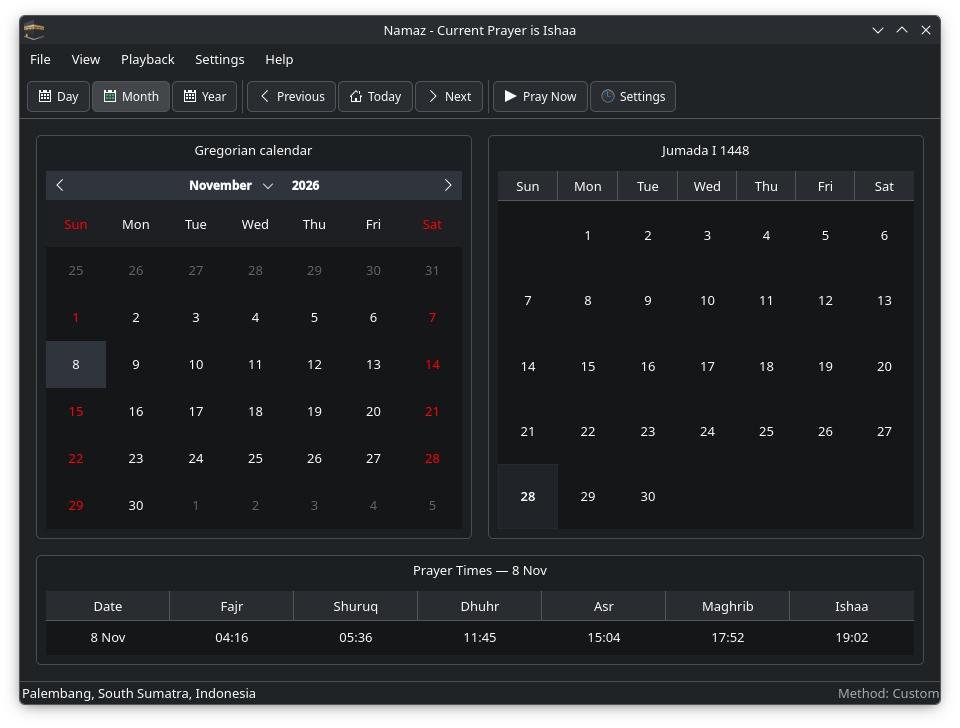
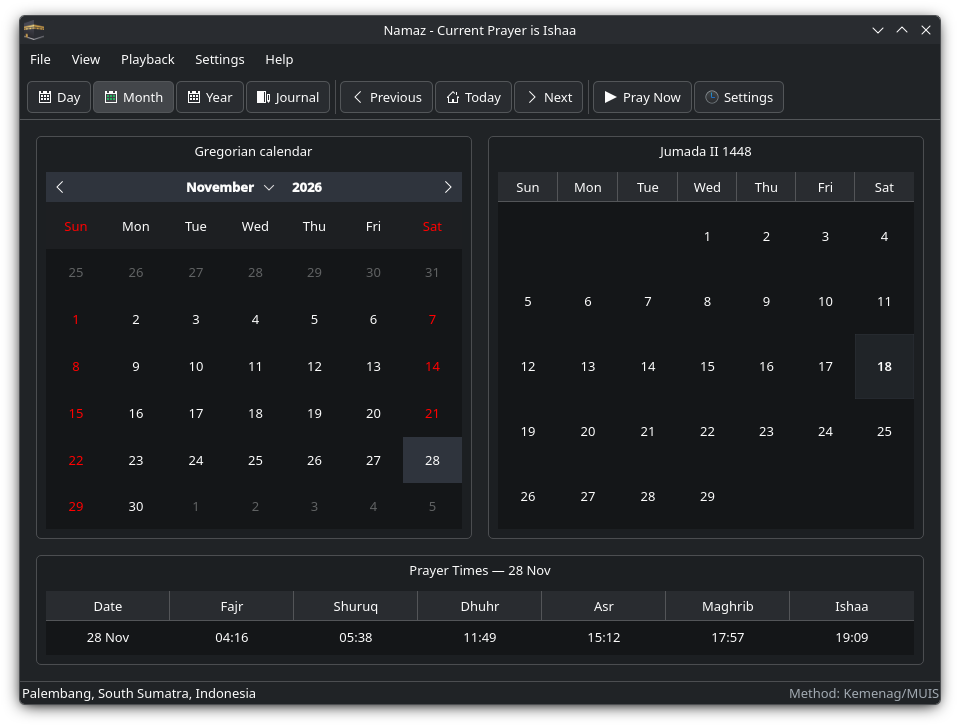
docs: refresh screenshots and add journal view

diff --git a/packaging/pages/index.html b/packaging/pages/index.html
@@ -112,6 +112,7 @@ flatpak run io.github.ikhlasulov.Namaz</code></pre>
     <p class="lead" style="font-size: .95rem">Click a screenshot to see it full size.</p>
     <div class="grid">
       <a href="screenshots/day.png" data-caption="Day view"><img src="screenshots/day.png" alt="Day view" loading="lazy"></a>
+      <a href="screenshots/journal.png" data-caption="Prayer journal"><img src="screenshots/journal.png" alt="Prayer journal" loading="lazy"></a>
       <a href="screenshots/month.png" data-caption="Month view"><img src="screenshots/month.png" alt="Month view" loading="lazy"></a>
       <a href="screenshots/year.png" data-caption="Year view"><img src="screenshots/year.png" alt="Year view" loading="lazy"></a>
       <a href="screenshots/settings.png" data-caption="Prayer settings"><img src="screenshots/settings.png" alt="Prayer settings" loading="lazy"></a>

diff --git a/ui/translations/namaz_ru.ts b/ui/translations/namaz_ru.ts
@@ -430,7 +430,7 @@
     <message>
         <location filename="../src/Widgets.cpp" line="473"/>
         <source>Show &amp;Hijri Date</source>
-        <translation>Показать &amp;хиджрийскую дату</translation>
+        <translation>Показать &amp;дату хиджры</translation>
     </message>
     <message>
         <location filename="../src/Widgets.cpp" line="480"/>
@@ -2009,7 +2009,7 @@ Save anyway?</source>
     <message>
         <location filename="../src/Dialogs.cpp" line="1448"/>
         <source>Hijri date offset</source>
-        <translation>Смещение хиджрийской даты</translation>
+        <translation>Смещение даты хиджры</translation>
     </message>
     <message>
         <location filename="../src/Dialogs.cpp" line="1160"/>

diff --git a/README.ru.md b/README.ru.md
@@ -5,7 +5,7 @@
 <h1 align="center">Namaz</h1>
 
 <p align="center">
-  Время мусульманских молитв, направление Киблы и хиджрийский календарь для Linux.<br>
+  Время мусульманских молитв, направление Киблы и календарь хиджры для Linux.<br>
   Нативное ядро на Rust + интерфейс Qt 6 Widgets.
 </p>
 
@@ -24,7 +24,7 @@
 
 **Namaz** — свободное нативное приложение для Linux для пяти ежедневных
 молитв. Оно рассчитывает время намаза по координатам и выбранному методу,
-показывает направление Киблы и хиджрийский календарь, умеет проигрывать
+показывает направление Киблы и календарь хиджры, умеет проигрывать
 азан, напоминания и икаму из системного трея.
 
 Интерфейс следует рекомендациям KDE Plasma HIG и интегрируется с рабочим
@@ -37,7 +37,7 @@
 
 ## Возможности
 
-- **Экраны Day, Month, Year и Journal (Журнал)** с григорианским и хиджрийским календарями.
+- **Экраны Day, Month, Year и Journal (Журнал)** с григорианским календарём и календарём хиджры.
 - **Точный движок расчёта**, портированный из Islamic Times Library (ITL).
 - **Методы расчёта**: Custom, Egyptian, ISNA, MWL, Umm al-Qura, Karachi,
   Kemenag/MUIS (Индонезия и Сингапур) и другие, мазхаб Standard/Hanafi и
@@ -55,9 +55,13 @@
   намазе; азан остаётся без изменений.  Журнал работает, пока Namaz запущен
   (окно или трей).  Идея взята из [Dosage](https://github.com/diegopvlk/Dosage)
   (GPL-3.0-only, реализована независимо).
-- **Экспорт**: PDF и CSV (григорианский, хиджрийский и Outlook CSV).
+- **Экспорт**: PDF и CSV (григорианский календарь, календарь хиджры и Outlook CSV).
 - **Локализация**: английский и русский.
 - **Приватность**: без телеметрии, аккаунтов и сетевых запросов для расчёта.
+
+<p align="center">
+  <img src="README/journal.png" alt="Журнал намазов" width="900"/>
+</p>
 
 <p align="center">
   <img src="README/month.png" alt="Экран месяца" width="440"/>

diff --git a/CHANGELOG.md b/CHANGELOG.md
@@ -4,6 +4,15 @@ All notable changes to Namaz are documented here.  The format is based on
 [Keep a Changelog](https://keepachangelog.com/en/1.1.0/) and the project uses
 [Semantic Versioning](https://semver.org/).
 
+## [1.1.13] - 2026-11-28
+
+### Changed
+
+- Refreshed the screenshots in both READMEs and on the project page, and added
+  a Journal screenshot to the README gallery and the Pages screenshot grid.
+- The Russian README, desktop entry and interface now use "календарь хиджры"
+  and "дата хиджры" instead of the awkward "хиджрийский календарь".
+
 ## [1.1.12] - 2026-11-26
 
 ### Changed

diff --git a/README.md b/README.md
@@ -63,6 +63,10 @@ Qt 6 Widgets.
   prayer-time calculations.
 
 <p align="center">
+  <img src="README/journal.png" alt="Prayer journal" width="900"/>
+</p>
+
+<p align="center">
   <img src="README/month.png" alt="Month view" width="440"/>
   <img src="README/year.png" alt="Year view" width="440"/>
 </p>
